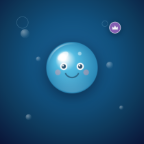
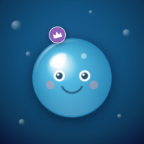
docs: 头像 v2 满版构图——笑脸水滴放大至 ~88% 画面，深渊王座皇冠扣在球面左上（戴冠造型），144 方形+圆形裁切预览同步重生成

diff --git a/test/avatar.js b/test/avatar.js
@@ -1,39 +1,37 @@
-// 小程序头像生成：840×840 方形（平台自动裁圆），笑脸水滴主体 + 深海渐变
+// 小程序头像生成 v2：满版构图——笑脸水滴撑满画面 + 头戴深渊王座皇冠
 const { chromium } = require('playwright-core');
 const path = require('path');
+const fs = require('fs');
 
 const html = `<!DOCTYPE html>
 <html><head><meta charset="UTF-8"><style>
   * { margin:0; padding:0; box-sizing:border-box; }
   body { width:840px; height:840px; overflow:hidden; position:relative;
-    background:radial-gradient(circle at 50% 42%, #1C669C 0%, #11517E 40%, #0E3A5C 68%, #0A1538 100%); }
-  /* 气泡 */
+    background:radial-gradient(circle at 50% 38%, #1C669C 0%, #11517E 45%, #0E3A5C 75%, #0A1538 100%); }
   .bub { position:absolute; border-radius:50%;
-    background:radial-gradient(circle at 32% 30%, rgba(255,255,255,.4), rgba(174,224,244,.06) 68%); }
-  .ring { position:absolute; border-radius:50%; border:3px solid rgba(174,224,244,.22); }
-  /* 主角：笑脸水滴 */
-  .drop { position:absolute; left:50%; top:47%; width:480px; height:480px;
-    transform:translate(-50%,-50%); filter:drop-shadow(0 18px 44px rgba(0,10,30,.6)); }
-  /* 王座小皇冠：点题深渊王座 */
-  .crown { position:absolute; right:104px; top:96px; width:130px; height:130px; opacity:.95;
-    filter:drop-shadow(0 8px 18px rgba(0,10,30,.55)); }
+    background:radial-gradient(circle at 32% 30%, rgba(255,255,255,.45), rgba(174,224,244,.06) 68%); }
+  /* 主角：笑脸水滴撑满（宽约 88%，底部微微出画更有张力） */
+  .drop { position:absolute; left:50%; top:54%; width:740px; height:740px;
+    transform:translate(-50%,-50%); filter:drop-shadow(0 16px 40px rgba(0,10,30,.65)); }
+  /* 皇冠：扣在水滴头顶左上（球面高光位），随球体微倾 */
+  .crown { position:absolute; left:50%; top:14%; width:190px; height:190px;
+    transform:translate(-95%,-5%) rotate(-14deg);
+    filter:drop-shadow(0 6px 14px rgba(0,10,30,.55)); }
 </style></head>
 <body>
-  <div class="bub" style="left:120px;top:170px;width:52px;height:52px"></div>
-  <div class="bub" style="left:210px;top:330px;width:28px;height:28px"></div>
-  <div class="bub" style="right:180px;top:360px;width:40px;height:40px"></div>
-  <div class="bub" style="right:120px;bottom:200px;width:24px;height:24px"></div>
-  <div class="bub" style="left:150px;bottom:140px;width:34px;height:34px"></div>
-  <div class="ring" style="left:96px;top:96px;width:70px;height:70px"></div>
-  <div class="ring" style="right:210px;top:120px;width:36px;height:36px"></div>
+  <div class="bub" style="left:66px;top:120px;width:58px;height:58px"></div>
+  <div class="bub" style="left:150px;top:300px;width:30px;height:30px"></div>
+  <div class="bub" style="right:80px;top:170px;width:44px;height:44px"></div>
+  <div class="bub" style="right:130px;bottom:150px;width:26px;height:26px"></div>
+  <div class="bub" style="left:110px;bottom:110px;width:36px;height:36px"></div>
+  <div class="bub" style="right:300px;top:60px;width:22px;height:22px"></div>
 
   <img class="drop" src="tier3.png">
   <img class="crown" src="sea7.png">
 </body></html>`;
 
 (async () => {
-  const fs = require('fs');
-  const tmp = path.join(__dirname, 'icons', '_avatar.html');
+  const tmp = path.join(__dirname, 'icons', '_avatar2.html');
   fs.writeFileSync(tmp, html);
 
   const browser = await chromium.launch({ channel: 'msedge', headless: true });
@@ -42,20 +40,27 @@ const html = `<!DOCTYPE html>
   await page.waitForTimeout(600);
   await page.screenshot({ path: path.join(__dirname, '..', '头像_小程序840.png') });
 
-  // 附赠 144px 实际显示尺寸预览（方形 + 圆形裁切各一张，检查小图可读性）
-  const prev = await browser.newPage({ viewport: { width: 340, height: 200 } });
-  await prev.goto('file:///' + tmp.replace(/\\/g, '/'));
-  await prev.waitForTimeout(400);
-  await prev.evaluate(() => {
-    document.body.style.width = '144px'; document.body.style.height = '144px';
-    document.querySelectorAll('.bub,.ring,.crown,.wave').forEach(e => e.remove());
-    document.body.style.cssText += 'position:fixed;left:0;top:0;transform:scale(0.1714);transform-origin:0 0;';
-    const wrap = document.createElement('div');
-    wrap.style.cssText = 'position:fixed;inset:0;background:#f0f0f0;z-index:-1';
-    document.body.appendChild(wrap);
+  // 144 方形版 + 圆形裁切预览：加载刚生成的 840 成品图重采样
+  const src = path.join(__dirname, '..', '头像_小程序840.png');
+  const p2 = await browser.newPage({ viewport: { width: 300, height: 300 } });
+  await p2.goto('file:///' + src.replace(/\\/g, '/'));
+  await p2.evaluate(() => { const img = document.querySelector('img'); return new Promise(r => img.complete ? r() : img.onload = r); });
+  const dataURLs = await p2.evaluate(() => {
+    const img = document.querySelector('img');
+    const mk = round => {
+      const cv = document.createElement('canvas'); cv.width = 144; cv.height = 144;
+      const ctx = cv.getContext('2d');
+      ctx.imageSmoothingEnabled = true; ctx.imageSmoothingQuality = 'high';
+      if (round) { ctx.beginPath(); ctx.arc(72, 72, 72, 0, Math.PI * 2); ctx.clip(); }
+      ctx.drawImage(img, 0, 0, 840, 840, 0, 0, 144, 144);
+      return cv.toDataURL('image/png');
+    };
+    return { sq: mk(false), round: mk(true) };
   });
-  await prev.close();
+  fs.writeFileSync(path.join(__dirname, '..', '头像_小程序144.png'), Buffer.from(dataURLs.sq.split(',')[1], 'base64'));
+  fs.writeFileSync(path.join(__dirname, '_avatar_round.png'), Buffer.from(dataURLs.round.split(',')[1], 'base64'));
+
   await browser.close();
   fs.unlinkSync(tmp);
-  console.log('AVATAR OK');
+  console.log('AVATAR V2 OK');
 })().catch(e => { console.error('FATAL', e); process.exit(1); });
